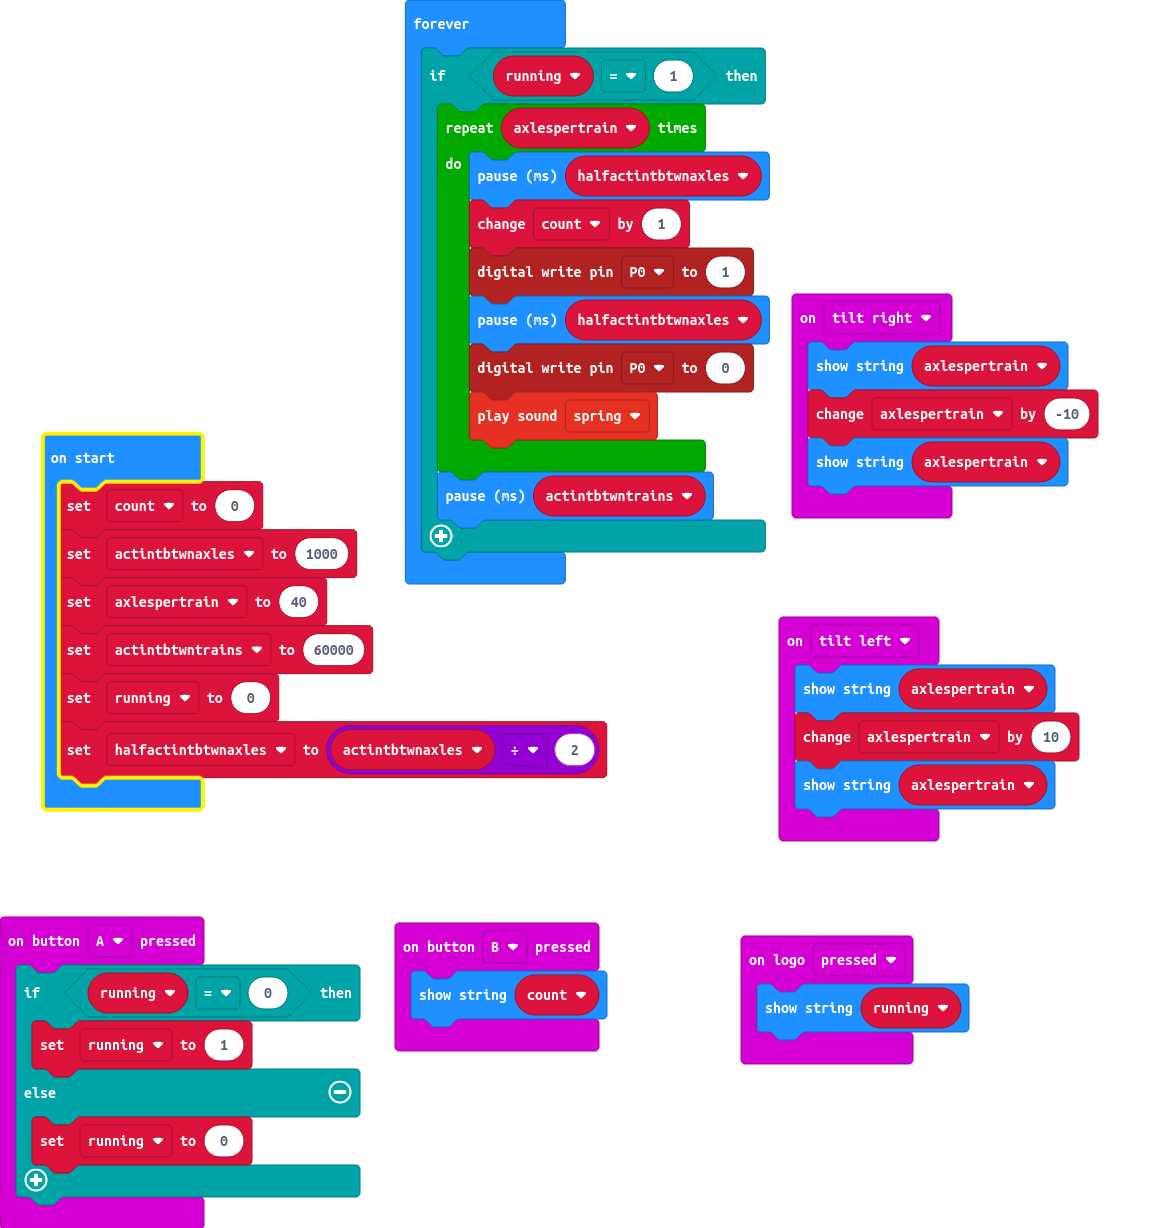
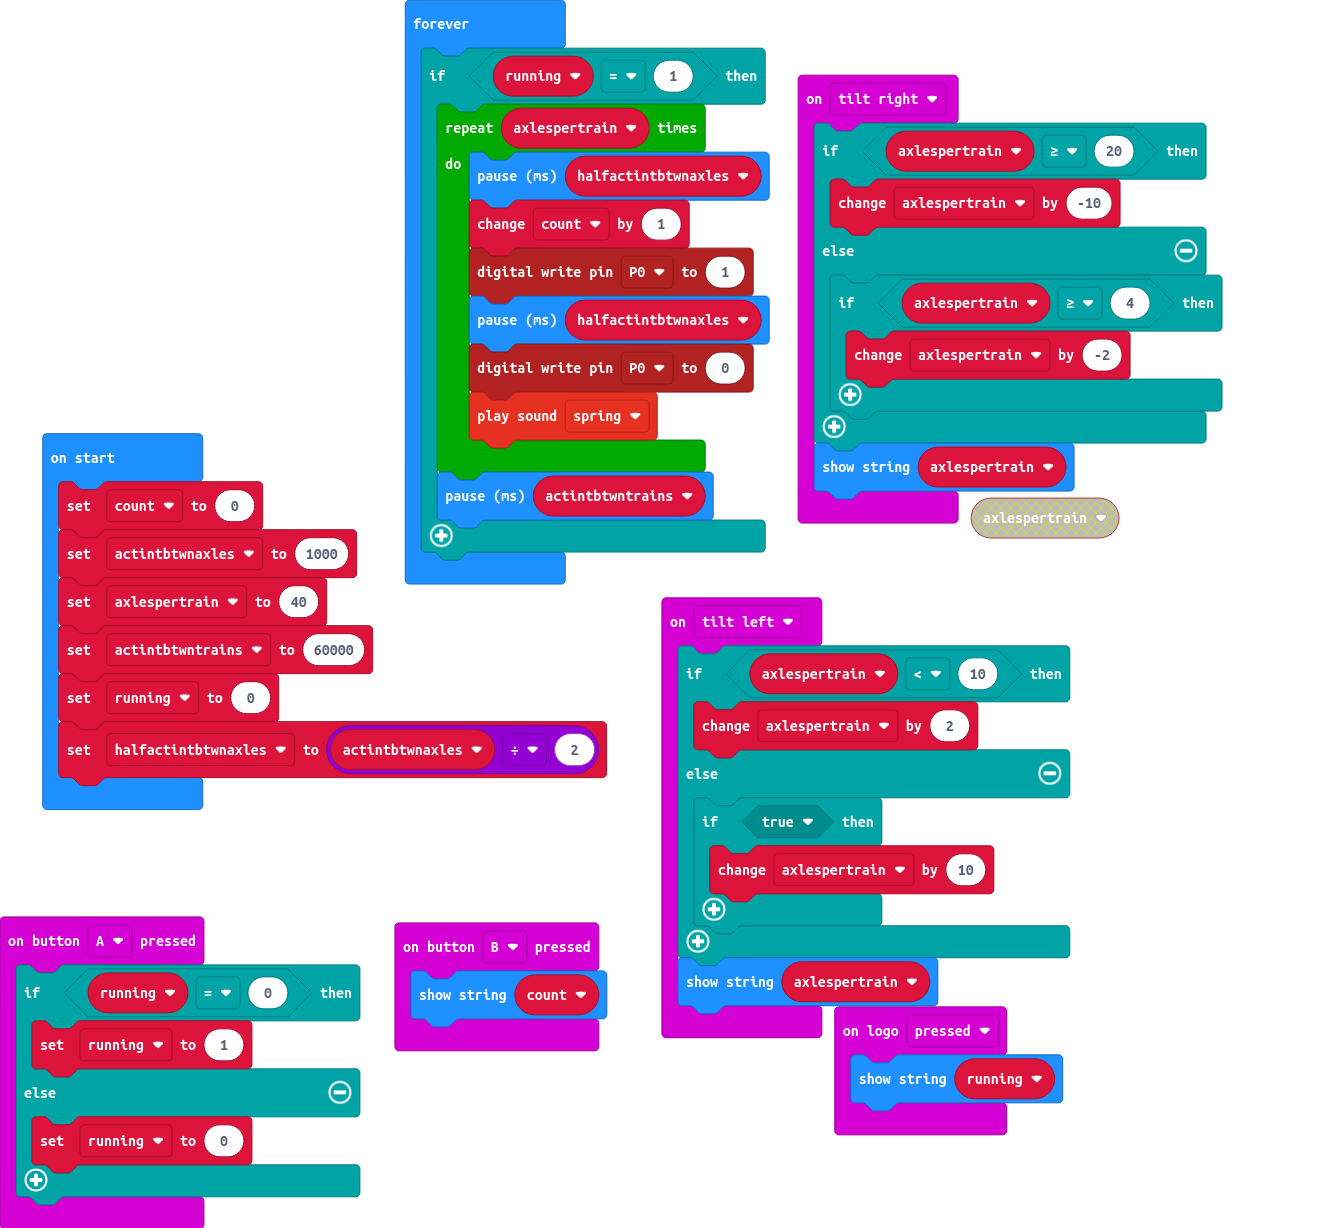
Update main.blocks, main.ts

diff --git a/main.ts b/main.ts
@@ -6,16 +6,26 @@ input.onButtonPressed(Button.A, function () {
     }
 })
 input.onGesture(Gesture.TiltLeft, function () {
-    basic.showString("" + (axlespertrain))
-    axlespertrain += 10
+    if (axlespertrain < 10) {
+        axlespertrain += 2
+    } else {
+        if (true) {
+            axlespertrain += 10
+        }
+    }
     basic.showString("" + (axlespertrain))
 })
 input.onButtonPressed(Button.B, function () {
     basic.showString("" + (count))
 })
 input.onGesture(Gesture.TiltRight, function () {
-    basic.showString("" + (axlespertrain))
-    axlespertrain += -10
+    if (axlespertrain >= 20) {
+        axlespertrain += -10
+    } else {
+        if (axlespertrain >= 4) {
+            axlespertrain += -2
+        }
+    }
     basic.showString("" + (axlespertrain))
 })
 input.onLogoEvent(TouchButtonEvent.Pressed, function () {
